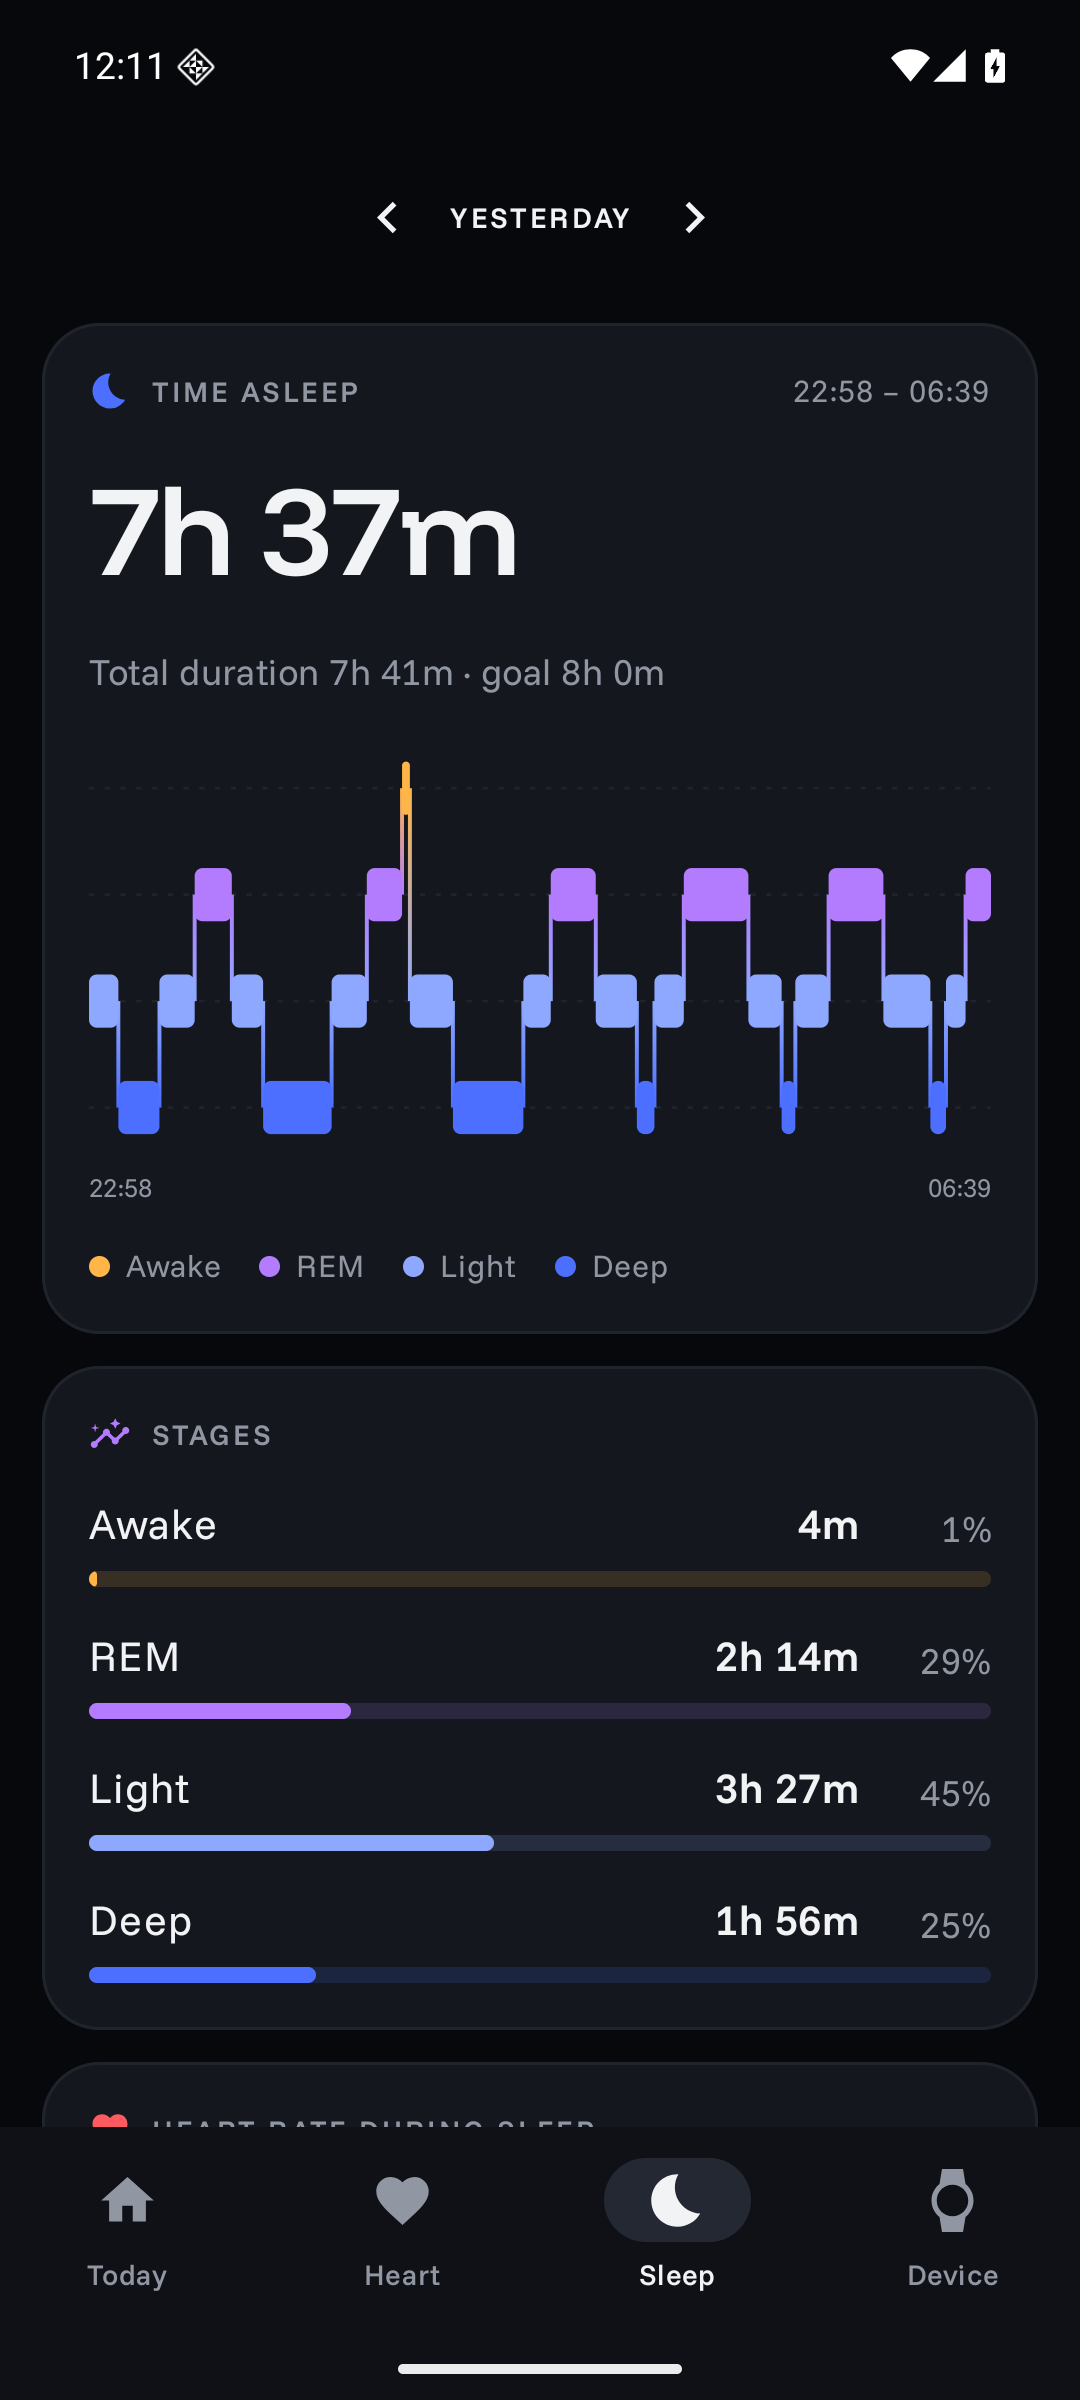
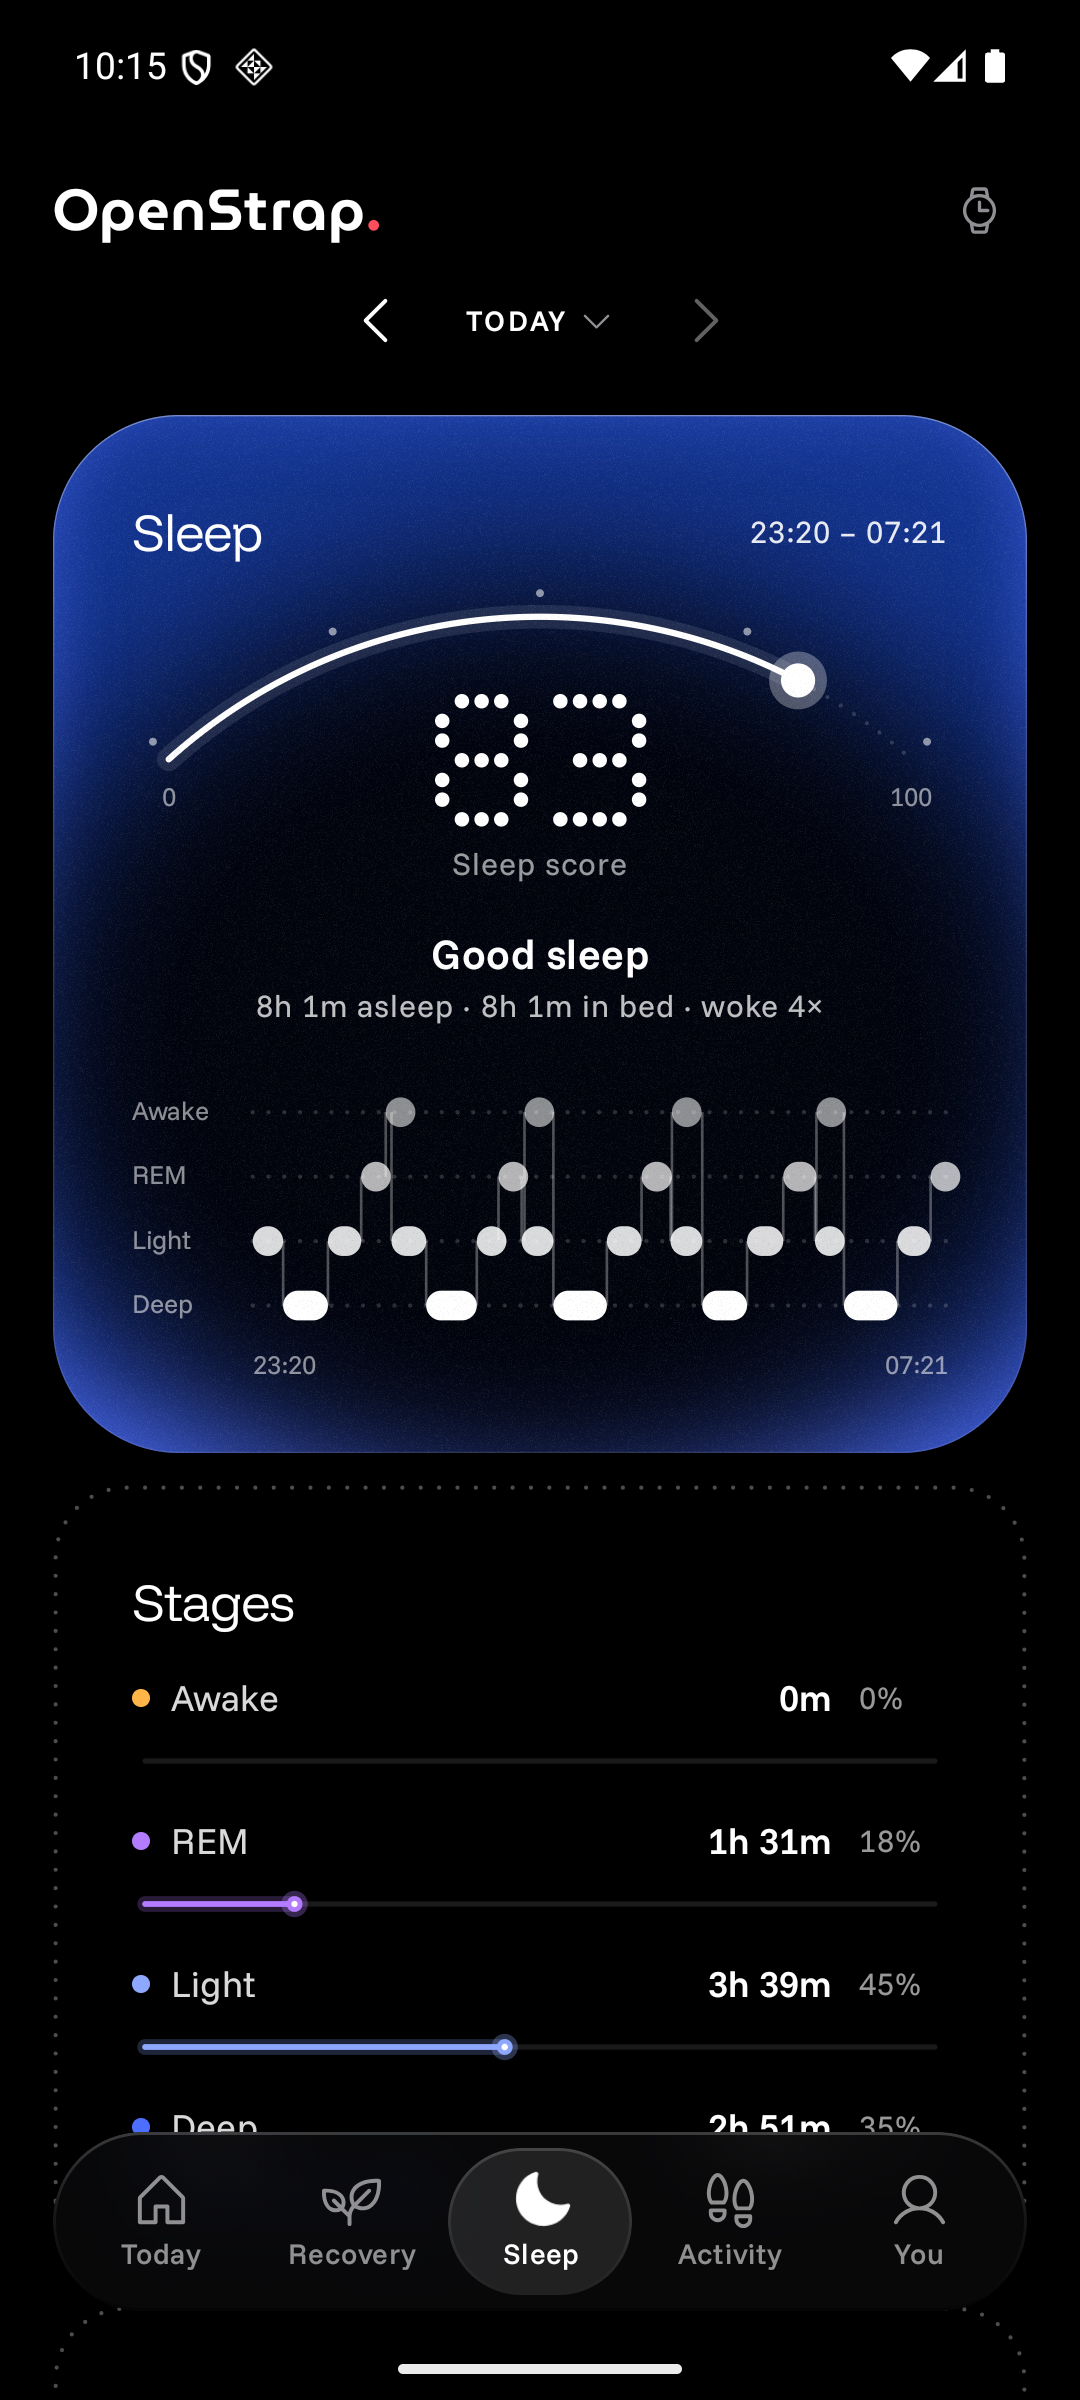
Release v1.0.0: CI builds, signed releases, README refresh
GitHub Actions runs the tests and builds a debug APK on every push and
pull request; a vX.Y.Z tag builds the APK signed with the release key and
publishes it as a GitHub release. The tag sets versionName, and
versionCode follows from it so each release installs over the last.

Sample data now fills every card (steps, distance, calories, workouts,
training load, overnight SpO2 and HRV), and the README has new
screenshots, install steps, an up-to-date status table and release notes.

diff --git a/app/src/debug/kotlin/org/openstrap/app/DemoData.kt b/app/src/debug/kotlin/org/openstrap/app/DemoData.kt
@@ -1,6 +1,15 @@
 package org.openstrap.app
 
+import org.openstrap.app.data.db.ActivityExtendedMinute
 import org.openstrap.app.data.db.ActivityMinute
+import org.openstrap.app.data.db.DailyMaxHr
+import org.openstrap.app.data.db.HrvSdnnSample
+import org.openstrap.app.data.db.OsaResultRow
+import org.openstrap.app.data.db.RecoveryHeartRateRow
+import org.openstrap.app.data.db.SleepSpo2Sample
+import org.openstrap.app.data.db.SportEffectRow
+import org.openstrap.app.data.db.Workout
+import org.openstrap.app.data.db.WorkoutHeartRate
 import org.openstrap.app.data.db.BreathRate
 import org.openstrap.app.data.db.HealthDao
 import org.openstrap.app.data.db.HeartRateSample
@@ -55,16 +64,66 @@ object DemoData {
 
             val endOfData = if (back == 0) System.currentTimeMillis() / 1000 else midnight + 24 * 3600
             val minutes = (midnight until endOfData step 60L).toList()
-            // Every other evening a 50-minute run at ~150 bpm; the night after it shows a little in HRV.
-            val workout = back % 2 == 1
-            val runStart = midnight + 18 * 3600
+            // Every other evening a 50-minute run at ~150 bpm (this morning too, so Today has one); the night
+            // after it shows a little in HRV.
+            val runStart = if (back == 0) midnight + 7 * 3600 + 30 * 60 else midnight + 18 * 3600
+            val runEnd = runStart + 50 * 60
+            val workout = (back % 2 == 1 || back == 0) && runEnd <= endOfData
             dao.insertHeartRate(minutes.map {
                 val hour = (it - midnight) / 3600.0
                 val asleep = it < sleepEnd
                 val base = if (asleep) 52.0 + 4 * sin((it - sleepStart) / 3600.0) else 66 + 10 * sin((hour - 9) / 24 * 2 * Math.PI)
-                val run = workout && it in runStart until runStart + 50 * 60
+                val run = workout && it in runStart until runEnd
                 HeartRateSample(it, (if (run) 148.0 + rnd.nextInt(-6, 7) else base + rnd.nextInt(-3, 4)).toInt().coerceAtLeast(45))
             })
+            // Steps: a commute, a lunch walk and pottering about while awake; the run is ~160 steps a minute.
+            val awake = minutes.filter { it >= sleepEnd }
+            val steps = awake.map {
+                val hour = (it - midnight) / 3600.0
+                val run = workout && it in runStart until runEnd
+                val walk = hour in 8.5..9.0 || hour in 12.5..13.0 || hour in 17.5..18.0
+                when {
+                    run -> 155 + rnd.nextInt(0, 12)
+                    walk -> 95 + rnd.nextInt(0, 20)
+                    hour < 22 && rnd.nextInt(0, 3) == 0 -> rnd.nextInt(10, 60)
+                    else -> 0
+                }
+            }
+            dao.insertActivity(awake.zip(steps) { t, n ->
+                ActivityMinute(t, n, intensity = (n / 2).coerceAtMost(100), kind = 0, heartRate = null)
+            })
+            // Distance (~75 cm a step) and active calories come from the extended per-minute record.
+            dao.insertActivityExtended(awake.zip(steps) { t, n ->
+                val running = n > 140
+                ActivityExtendedMinute(
+                    t, floors = 0, run = if (running) 1 else 0, fatBurn = 0, stand = if (n in 1..140) 1 else 0,
+                    walk = if (n in 60..140) 1 else 0, sit = if (n == 0) 1 else 0, steps = n,
+                    calories = when { running -> 12; n > 60 -> 4; n > 0 -> 1; else -> 0 }, distanceCm = n * (if (running) 110 else 75),
+                )
+            })
+            if (workout) {
+                val hr = (runStart until runEnd step 5L).mapIndexed { i, t ->
+                    val warm = (i / 60.0).coerceAtMost(1.0)
+                    WorkoutHeartRate(runStart, t, (100 + 50 * warm + 6 * sin(i / 40.0) + rnd.nextInt(-3, 4)).toInt())
+                }
+                dao.insertWorkouts(listOf(Workout(
+                    runStart, runEnd, sportType = 1, exerciseSeconds = 50 * 60, calories = 540 + rnd.nextInt(0, 60),
+                    averageHeartRate = hr.map { it.bpm }.average().toInt(), maxHeartRate = hr.maxOf { it.bpm }, minHeartRate = hr.minOf { it.bpm },
+                    aerobicTrainingEffect = 3.1f + rnd.nextFloat(), anaerobicTrainingEffect = 1.2f + rnd.nextFloat(),
+                    trainingLoad = 95 + rnd.nextInt(0, 40), vo2max = 48, steps = 7800 + rnd.nextInt(0, 400),
+                )))
+                dao.insertWorkoutHeartRate(hr)
+                dao.insertSportEffects(listOf(SportEffectRow(
+                    runEnd, recoveryMinutes = 20 * 60 + rnd.nextInt(0, 600), vo2max = 48f, epoc = 60f + rnd.nextInt(0, 30),
+                    weeklyLoad = 380f + (20 - back) * 6, monthlyLoad = 1400f, optimalLoadMin = 300, optimalLoadMax = 600, maximalHeartRate = 192,
+                )))
+                dao.insertRecoveryHeartRate(listOf(RecoveryHeartRateRow(runStart, ByteArray(180) { (150 - it / 3).toByte() })))
+                dao.insertDailyMaxHr(listOf(DailyMaxHr(midnight, hr.maxOf { it.bpm })))
+            }
+            // Through the night: blood oxygen every five minutes and HRV (SDNN) every couple of hours, day and night.
+            dao.insertSleepSpo2((sleepStart until sleepEnd step 300L).map { SleepSpo2Sample(it, 94 + rnd.nextInt(0, 5)) })
+            dao.insertHrvSdnn((sleepStart until endOfData step 7200L).map { HrvSdnnSample(it, 45f + rnd.nextInt(0, 25)) })
+            dao.insertOsaResults(listOf(OsaResultRow(midnight, 7 * 3600, 0, 95, 0, eventCount = rnd.nextInt(0, 3), version = 1)))
             // Stress: calm mornings and evenings, busier working hours.
             dao.insertStress(minutes.filter { it >= sleepEnd }.filterIndexed { i, _ -> i % 5 == 0 }.map {
                 val hour = ((it - midnight) / 3600).toInt()

diff --git a/README.md b/README.md
@@ -8,30 +8,40 @@
 A private, open-source companion app for the **Amazfit Helio Strap**, built as a replacement for Zepp.
 
 - **Local-first.** Health data lives in a database on your phone. The app doesn't use Zepp's cloud, any analytics or any trackers.
-- **Modern.** It is built with Kotlin, Jetpack Compose and Material 3, and has a dark-first design with Funnel Display/Sans fonts.
+- **Modern.** It is built with Kotlin, Jetpack Compose and Material 3, and has an always-dark "Glow" design built for OLED screens.
 - **Clean-room.** The protocol is implemented from written specs in [`docs/protocol/`](docs/protocol). Those specs were derived only from static analysis of the official app. No Gadgetbridge (AGPL) code was used.
 
-| Today | Sleep | Heart |
-|---|---|---|
-| ![](docs/screenshots/today.png) | ![](docs/screenshots/sleep.png) | ![](docs/screenshots/heart.png) |
+| Today | Recovery | Sleep | Activity |
+|---|---|---|---|
+| ![](docs/screenshots/today.png) | ![](docs/screenshots/recovery.png) | ![](docs/screenshots/sleep.png) | ![](docs/screenshots/activity.png) |
 
 *Screenshots use the sample data that debug builds can generate.*
 
+## Install
+
+Download `OpenStrap-vX.Y.Z.apk` from the [latest release](https://github.com/sayed0am/openstrap/releases/latest) and open it on your phone (Android 9 or newer). Android asks you to allow installs from your browser or file manager the first time. Each release lists the APK's SHA-256 in `SHA256SUMS.txt`.
+
+Updates install over the previous version and keep your data.
+
 ## Status
+
+Tested daily with a real Helio Strap.
 
 | Feature | State |
 |---|---|
-| Pair with auth key, ECDH (B-163) auth, encrypted channel | Implemented, tested against a simulated strap |
-| Battery, firmware version, time sync | Implemented |
-| Live heart rate | Implemented |
-| History sync: activity, sleep stages, HR, HRV, resting HR, SpO₂, stress | Implemented |
-| Dashboard: Today / Heart / Sleep | Implemented |
-| Export: CSV zip, Android Health Connect | Implemented |
-| Firmware update (online check with your own Zepp token, or from a file) | Implemented, not yet tried on hardware |
-| Workouts (protobuf summaries, GPS) | Not yet |
-| Open energy score ("Reserve") | Planned |
+| Pair with auth key, ECDH (B-163) auth, encrypted channel | ✅ Works |
+| Sign in with Zepp to fetch the auth key | ✅ Works |
+| Battery, firmware version, time sync | ✅ Works |
+| Live heart rate | ✅ Works |
+| History sync: activity, sleep stages, HR, HRV, resting HR, SpO₂, stress, skin temperature, breathing | ✅ Works |
+| Workouts with heart-rate zones, training effect and recovery | ✅ Works |
+| Recovery, Charge and sleep scores, PAI, training load | ✅ Works |
+| Dashboard: Today, Recovery, Sleep, Activity, You (foldables and tablets too) | ✅ Works |
+| Alarms, strap health alerts | ✅ Works |
+| Export: CSV zip, Android Health Connect | ✅ Works |
+| Firmware update (online check with your Zepp token, or from a file) | ✅ Works |
 
-⚠ **None of this has run against a real strap yet.** Everything marked UNVERIFIED in the specs is a best guess, and those points are isolated in code comments. Use **Device → Diagnostics → copy** to capture a log when testing.
+Something not right? **You → Diagnostics → copy** captures a log to attach to an issue.
 
 ## Getting the auth key
 
@@ -40,7 +50,7 @@ The strap only accepts a first pairing that Zepp's server has signed. After that
 1. Pair the strap **once** with the Zepp app. A throwaway account with minimal profile data is enough.
 2. Read the strap's `auth_key` from your Zepp account's device list (the [Gadgetbridge server-pairing guide](https://gadgetbridge.org/basics/pairing/huami-xiaomi-server/) explains how). It is 32 hex characters.
 3. Uninstall Zepp. **Do not unbind the strap in Zepp**: that wipes the key on the strap.
-4. In OpenStrap: **Device → Scan** (strap on its charger) → paste the key → **Pair**.
+4. In OpenStrap: **You → your strap → Scan for straps** (strap on its charger) → paste the key, or tap **Sign in with Zepp to fetch the key** → **Pair**.
 
 Treat the key like a password. Anyone who has it can connect to your strap.
 
@@ -52,11 +62,30 @@ Requires JDK 21 and the Android SDK (compileSdk 37).
 ./gradlew :protocol:test :app:testDebugUnitTest :app:assembleDebug
 ```
 
+Debug builds can fill an empty database with three weeks of sample data, for the emulator:
+
+```bash
+adb shell am start -n org.openstrap.app/.MainActivity --ez demo_data true
+```
+
+## Releases
+
+GitHub Actions ([`.github/workflows/android.yml`](.github/workflows/android.yml)) runs the tests and builds a debug APK on every push and pull request. Pushing a tag `vX.Y.Z` builds the signed release APK and publishes it as a GitHub release:
+
+```bash
+git tag v1.0.1 && git push origin v1.0.1
+```
+
+The tag sets the version: `versionName` is `X.Y.Z` and `versionCode` is `X*10000 + Y*100 + Z`, so every release installs over the last one. Versions follow [semantic versioning](https://semver.org).
+
+Release signing reads `OPENSTRAP_KEYSTORE`, `OPENSTRAP_KEYSTORE_PASSWORD`, `OPENSTRAP_KEY_ALIAS` and `OPENSTRAP_KEY_PASSWORD` from the environment; CI gets them from repository secrets (the keystore as `OPENSTRAP_KEYSTORE_BASE64`). Without them, local release builds are signed with the debug key.
+
 ## Layout
 
 - **`protocol/`**: a pure Kotlin/JVM module with no Android dependencies. It contains the B-163 ECDH, channel framing, AES/CRC session cipher, auth handshake, service codecs and the GDSP history fetch with its record parsers. A simulated strap tests it end to end.
 - **`app/`**: the Android app. It covers the coroutine GATT client, `StrapManager` (connection lifecycle), `HistorySync`, Room storage, the Compose UI, and the Health Connect and CSV exporters.
 - **`docs/protocol/`**: the clean-room specifications.
+- **`docs/algorithms/`**: how the Recovery and Charge scores are computed.
 
 ## License
 
